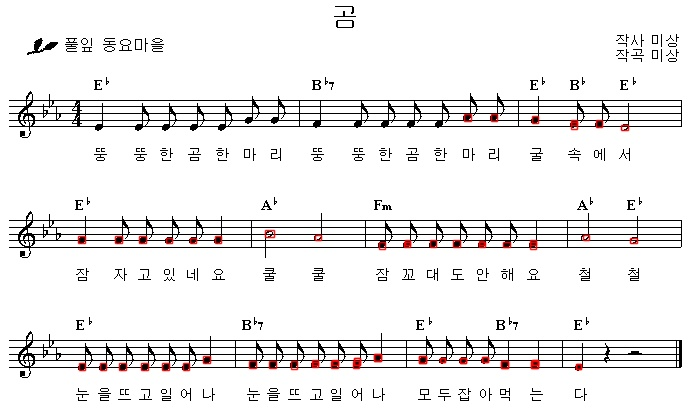
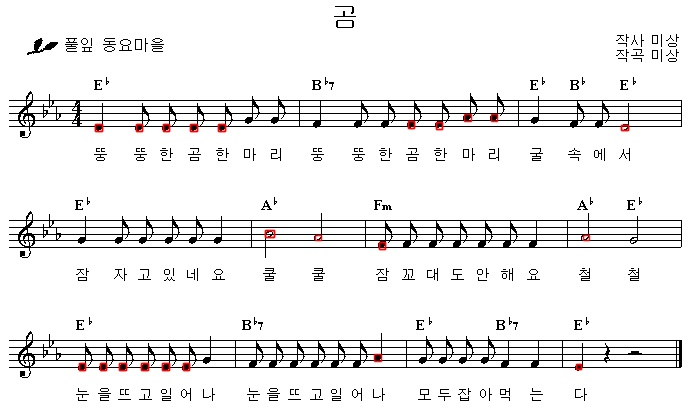
feat: pitch&sfn detection refactoring, noise removal newly added

diff --git a/model/pitch_detection_only_G.py b/model/pitch_detection_only_G.py
@@ -2,13 +2,14 @@ import constant as pitch
 import numpy as np 
 import cv2 
 import copy 
+import math 
 
 G_above = [pitch.C2, pitch.B2, pitch.A2, pitch.G2, pitch.F2]
 G_on = [pitch.F2, pitch.D2, pitch.B1, pitch.G1, pitch.E1]
 G_btw = [pitch.E2, pitch.C1, pitch.A1, pitch.F1]
 G_below = [pitch.D1, pitch.C1, pitch.B0, pitch.A0, pitch.G0]
 
-def pitch_detection_only_G(head_pos, staff_line, original=None, viz=False):
+def pitch_detection_only_G(head_pos, staff_line, flat=False, original=None, viz=False):
     # head pos 순서대로 주어졌다고 가정 
     # staff line만 주어졌다고 가정 
 
@@ -24,10 +25,10 @@ def pitch_detection_only_G(head_pos, staff_line, original=None, viz=False):
         notes = []
         which, pos = head
         label, x, y, w, h = pos[0], pos[1], pos[2], pos[3], pos[4]
-        
-        notes = choose_note(staff_line, which, head)
+ 
+        notes = choose_note(staff_line, which, head, flat=flat)
         if len(notes) == 0:  
-            notes = choose_note(staff_line, which, head, 10) # 빈 음표 방지 
+            notes = choose_note(staff_line, which, head, _margin=10) # 빈 음표 방지 
         
         pitches.append(notes)
 
@@ -54,11 +55,14 @@ def cal_margin(closest_len, closest, staff_line, which):
 
     return margin, head_h 
 
-def choose_note(staff_line, which, head, _margin=None):
-    flag = 0 
+def choose_note(staff_line, which, head, flat=False, _margin=None):
     result = []
     which, pos = head
     label, x, y, w, h = pos[0], pos[1], pos[2], pos[3], pos[4]
+
+    if flat: 
+        y += 5
+        h -= 5 
 
     cen_y = y + h/2
         
@@ -68,7 +72,7 @@ def choose_note(staff_line, which, head, _margin=None):
     d = min(dist[0])
     closest = np.where(dist[0] == dist[0].min())
     closest_len = (closest[0] >= 0).sum()
-    mul = d / (h/2) # 거리가 head의 몇 배인지 
+    mul = d / (h/2) 
 
     # print('margin', margin)
     # print('d', d)
@@ -81,44 +85,55 @@ def choose_note(staff_line, which, head, _margin=None):
         margin = _margin 
 
     ## on & between 
-    if closest_len == 1 and d <= margin: 
-        s1 = np.where(dist[0] == dist[0].min())[0][0]
+    if closest_len == 1 and d <= margin / 2: 
+        s1 = closest[0][0]
         dist[0][s1] = 10000
         s2 = np.where(dist[0] == dist[0].min())[0][0]
-
+        
         margin, _ = cal_margin(2, [[s1, s2]], staff_line, which)
-            # print('s1, s2, margin', s1, s2, margin)
-
-        if d <= margin / 2: 
+        d1 = d
+        d2 = dist[0][s2]
+        dist1 = None
+        if d1 <= margin and d2 <= margin * 1.75: 
+            # dist1 = min(abs(staff_line[which*5 + s1] + margin / 2 - cen_y), \
+            #             abs(staff_line[which*5 + s2] - margin / 2 - cen_y))
+            dist1 = min(d1, d2)
+            dist2 = d
+        
+        if dist1 is not None and dist1 <= dist2: 
             # print('between\n')
             p = s2 if s2 > s1 else s1
             result.append([head, G_btw[p-1]])
-            flag = 1
-
-        if flag == 0: 
+        elif dist1 is None or dist1 > dist2: 
             # print('on\n')
             result.append([head, G_on[closest[0][0]]])
-            flag = 1
 
     ## btw
-    elif closest_len >= 2 and d <= margin / 2: 
+    elif closest_len >= 2 and d <= margin * 1.5: 
         # print('btw\n')
         p = closest[0][0] if closest[0][0] > closest[0][1] else closest[0][1]
         result.append([head, G_btw[p-1]])
-        flag = 1
 
     # below 
     elif closest_len == 1 and closest[0][0] == 4 and d >= margin: 
         # print('below\n')
-        p = max(0, round(mul) - 1 )
+        if mul > margin: 
+            mul = math.ceil(mul) 
+        else: 
+            mul = math.floor(mul) 
+
+        p = max(0, mul - 1 )
         result.append([head, G_below[p]])
-        flag = 1
 
     # above 
     elif closest_len == 1 and closest[0][0] == 0 and d >= margin: 
         # print('above\n')
-        p = max(0, round(mul) - 1 )
+        if mul > margin: 
+            mul = math.ceil(mul) 
+        else: 
+            mul = math.floor(mul) 
+
+        p = max(0, mul - 1 )
         result.append([head, G_above[p]])
-        flag = 1
     
     return result 

diff --git a/model/conversion_oneline.py b/model/conversion_oneline.py
@@ -6,7 +6,11 @@ from pitch_detection_only_G import pitch_detection_only_G
 # symbols = '/opt/ml/yolov7/runs/symbols/exp/labels/school_bell_processed.txt'
 # img_path = '/opt/ml/yolov7/source/school_bell.jpg'
 
-def conversion(mode, label_file, img_path, staff_line): 
+key_sharp = ['f', 'c', 'g', 'd', 'a', 'e', 'b']
+key_flat = ['b', 'e', 'a', 'd', 'g', 'c', 'f']
+key_natural = ['c', 'd', 'e', 'f', 'g', 'a', 'b', 'c']
+
+def conversion_oneline(mode, label_file, img_path, staff_line): 
     ## label file 읽어오기 
     file = open(label_file, 'r') 
     img = cv2.imread(img_path)
@@ -44,12 +48,15 @@ def conversion(mode, label_file, img_path, staff_line):
                 break   
 
             label, x, y, w, h = convert(line, H, W)
+            closest = which_staff(y+h/2, staff_line) 
+            if closest > 0: 
+                continue 
 
-            if label == '24' or label == '25' or label == '26' or label == '27': 
+            if label == '24': 
                 sharp.append([label, x, y, w, h])
-            elif label == '20' or label == '21': 
+            elif label == '20': 
                 flat.append([label, x, y, w, h])
-            elif label == '22' or label == '23': 
+            elif label == '22': 
                 natural.append([label, x, y, w, h])
             else: 
                 continue 
@@ -60,11 +67,12 @@ def conversion(mode, label_file, img_path, staff_line):
         cv2.imwrite('conversion_symbol.jpg', img)
 
         if len(sharp) > 0: 
-            sharp = check_rep(sharp, staff_line) 
+            sharp = check_rep(sharp, key_sharp, staff_line) 
         if len(flat) > 0: 
-            flat = check_rep(flat, staff_line, flat=True) 
-        if len(natural) > 0: 
-            natural = check_rep(natural, staff_line) 
+            flat = check_rep(flat, key_flat, staff_line) 
+        ## natural check_rep 임시 
+        if len(flat) > 0: 
+            natural = check_rep(natural, key_natural, staff_line) 
          
         return sharp, flat, natural
 
@@ -119,21 +127,17 @@ def sort_head_pos(head_pos, staff_line):
     return sorted_pos
 
 
-def check_rep(sfn, staff_line, flat=False):
-    new_dict = {}
-    new_arr = []
-    for sig in sfn:  
-        _, x, y, w, h = sig
+def check_rep(sfn, s_or_f, staff_line, flat=False):
+    new_arr = [] 
+    for i, sig in enumerate(sfn): 
+        _, x, y, w, h = sig 
+
         cen_y = y + h/2
         which = which_staff(cen_y, staff_line)
-        s = [[which, sig]]
+        s = [which, sig]
+        
+        new_arr.append([s_or_f[i], s])
 
-        closest = pitch_detection_only_G(s, staff_line, flat=flat)
-
-        if closest[0][0][1] not in new_dict: 
-            new_dict[closest[0][0][1]] = sig 
-            new_arr.append([s, closest[0][0][1]]) 
-    
     return new_arr 
 
         

diff --git a/model/postprocess.py b/model/postprocess.py
@@ -1,4 +1,5 @@
 from conversion import conversion
+from conversion_oneline import conversion_oneline
 import argparse
 import sys
 import cv2
@@ -7,6 +8,7 @@ from note_class import info
 from pitch_detection_only_G import pitch_detection_only_G 
 from merge import merge_bbox
 from SFN_detection import sfn_detection
+from noise_removal import noise_removal
 
 parser = argparse.ArgumentParser()
 parser.add_argument('--note_label_file', type=str, default='')
@@ -16,6 +18,8 @@ parser.add_argument('--staves', type=str, default='')
 opt = parser.parse_args()
 print(opt)
 
+
+## staff line 읽어오기 
 original = cv2.imread(opt.img_path) 
 staves = open(opt.staves, 'r')
 staff_line = []
@@ -26,9 +30,11 @@ while True:
     staff_line.append(int(line.replace('\n', ''))) 
 staves.close() 
 
+
+## conversion 
 note_pos, staff_line = conversion('note', opt.note_label_file, opt.img_path, staff_line)
 # note pos = [which, [label, x, y, w, h]]
-# merged_note_pos = merge_bbox(note_pos, viz=True, img=original)
+merged_note_pos = merge_bbox(note_pos, viz=True, img=original)
 # merged_note pos = [which, [label, x, y, w, h]]
 
 n = []
@@ -39,24 +45,38 @@ for note in note_pos:
     m.bbox = note_pos[1][1:]
     n.append(m) 
 
-sharp, flat, natural = conversion('symbol', opt.symbol_label_file, opt.img_path, staff_line) 
+sharp, flat, natural = conversion_oneline('symbol', opt.symbol_label_file, opt.img_path, staff_line) 
 # sharp = [note, [label, x, y, w, h]]
-# print(sharp)
-# print(flat)
 
-# duration = duration_detection(note_pos, symbol)
-pitches = pitch_detection_only_G(note_pos, staff_line, original, viz=True) # 여기서 note head를 조금 filtering함 
-# pitches = [which, [label, x, y, w, h]]
+
+## noise removal 
+symbols = []
+if len(sharp) > 0: 
+    symbols.append(sharp) 
+if len(flat) > 0: 
+    symbols.append(flat) 
+if len(natural) > 0: 
+    symbols.append(natural)
+# print('symbols', symbols)
+noise_removed_note_pos = noise_removal(merged_note_pos, symbols, original)
+
+
+## pitch detection 
+pitches = pitch_detection_only_G(noise_removed_note_pos, staff_line, flat=False, original=original, viz=True) 
+# pitches = [which, [label, x, y, w, h], pitch]
+
+
+## sfn detection 
 pitches_sfn = sfn_detection(sharp, flat, natural, pitches, original)
-# pitches_sfn = [which, [label, x, y, w, h], sig여부]
+# pitches_sfn = [which, [label, x, y, w, h], pitch, sig여부]
 
-for p in pitches_sfn: 
+for i, p in enumerate(pitches_sfn): 
     pos_pitch, key_sign = p 
-    m.pitch = pos_pitch[1]
+    n[i].pitch = pos_pitch[1]
     if key_sign == 'sharp': 
-        m.sharp = True 
+        n[i].sharp = True 
     elif key_sign == 'flat': 
-        m.sharp = True 
+        n[i].sharp = True 
 
 
 

diff --git a/model/SFN_detection.py b/model/SFN_detection.py
@@ -40,8 +40,8 @@ def natural_check(natural_pos, head_pos, margin):
 def sharp_flat_check(array, s_or_f, natural, pitches, original_copy): 
     if array is not None:
         for s in array: 
-            s_whichpos, s_pitch = s 
-            s_which, s_pos = s_whichpos[0][0], s_whichpos[0][1]  
+            s_pitch, s_whichpos  = s 
+            s_which, s_pos = s_whichpos[0], s_whichpos[1]  
             label_s, s_x, s_y, s_w, s_h = s_pos[0], s_pos[1], s_pos[2], s_pos[3], s_pos[4]
 
             if label_s == '24' or label_s == '20': # 모든 노트헤드에 적용되는 sharp / flat
@@ -62,15 +62,15 @@ def sharp_flat_check(array, s_or_f, natural, pitches, original_copy):
                             # 해당 note head에 해당이 되는 경우 
                             pitches[i][0][1] = ''
 
-                    if s_pitch == pitch:
+                    if s_pitch in pitch:
                         pitches[i][0][1] = s_or_f
-                        flag = 1
                     
-                    if flag:
                         cv2.rectangle(original_copy, (x, y), (x+w, y+h), (0, 0, 255), 1, cv2.LINE_AA)
 
 
             else: # 특정 노트헤드에만 적용되는 sharp 
+                ## 현재 accidental SFN은 안 가져옴 
+
                 for i, pit in enumerate(pitches):
                     head_pitch, key = pit 
                     lab_pos, pitch = head_pitch[0], head_pitch[1]

diff --git a/model/noise_removal.py b/model/noise_removal.py
@@ -1,0 +1,34 @@
+import cv2
+import numpy as np 
+import copy 
+
+def noise_removal(note_pos, symbol_pos, original): 
+    original_copy = copy.deepcopy(original)
+    
+    note_min_x = np.min([note_pos[i][1][1] for i in range(len(note_pos))])
+    note_min_y = np.min([note_pos[i][1][2] for i in range(len(note_pos))])
+    note_max_x = np.max([note_pos[i][1][1] for i in range(len(note_pos))])
+    note_max_y = np.max([note_pos[i][1][2] for i in range(len(note_pos))])
+
+    sym_min_x = 0
+    sym_min_y = np.min([symbol_pos[0][i][1][1][2] for i in range(len(symbol_pos[0]))])
+    sym_max_x = np.max([symbol_pos[0][i][1][1][1] for i in range(len(symbol_pos[0]))])
+    sym_max_y = original.shape[1] 
+
+
+    ## filtering note heads 
+    new_note_pos = [] 
+    for note in note_pos: 
+        which, pos = note 
+        _, x, y, w, h = pos[0], pos[1], pos[2], pos[3], pos[4] 
+
+        if sym_min_x <= x <= sym_max_x and sym_min_y <= y <= sym_max_y: 
+            continue 
+        new_note_pos.append(note) 
+    
+
+    cv2.rectangle(original_copy, (note_min_x, note_min_y), (note_max_x, note_max_y), (0, 0, 255), 1, cv2.LINE_AA)
+    cv2.rectangle(original_copy, (sym_min_x, sym_min_y), (sym_max_x, sym_max_y), (255, 0, 0), 1, cv2.LINE_AA)
+    cv2.imwrite('testing_removal.jpg', original_copy)
+
+    return new_note_pos
